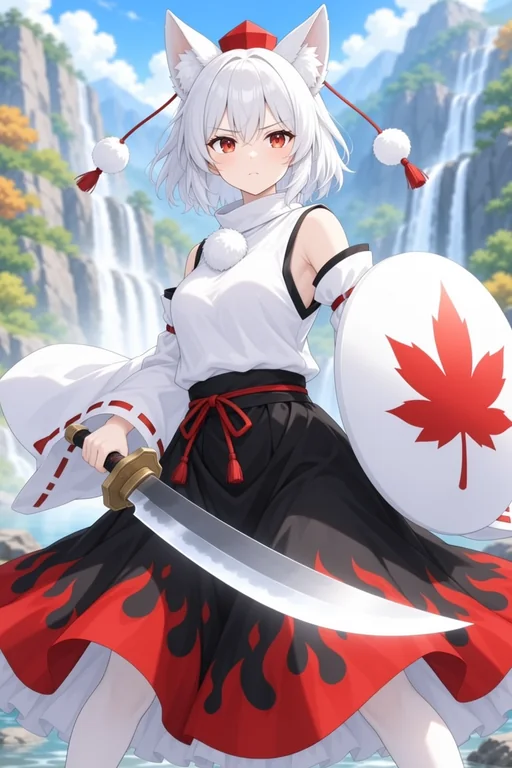
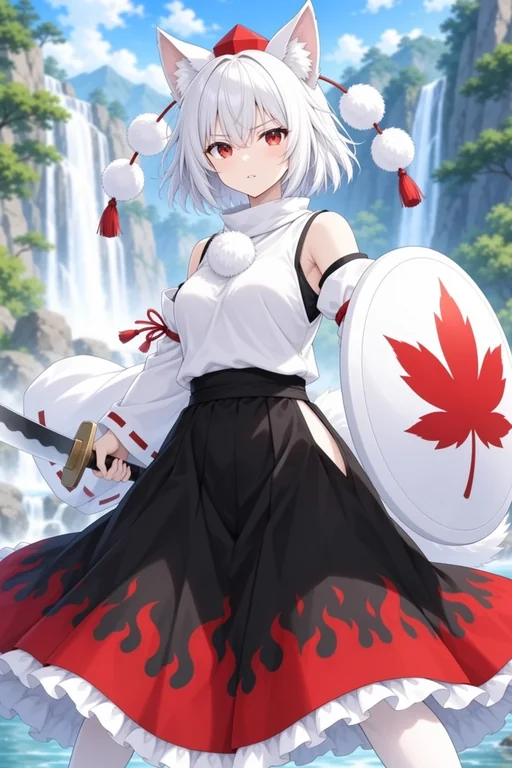
art(mountain): 風神録10枚を先輩の選定案に差し替え

diff --git a/tools/card-art/characters.md b/tools/card-art/characters.md
@@ -59,6 +59,8 @@
 | f_shizuha | 短い金髪（赤い紅葉）・金目・赤いロングドレス（裾に葉模様）・白いリーフリボン | `aki_shizuha short_hair blonde_hair gold_eyes red_dress leaf_print autumn_leaves` | 穣子と髪色が近いので帽子と葡萄で差をつける |
 | f_momiji | 短い白髪・赤目・狼耳・赤いトキン・白い長袖シャツ＋黒いロングスカート（赤い炎模様）・長い刀＋紅葉の盾 | `inubashiri_momiji white_hair red_eyes wolf_ears red_tokin white_shirt black_skirt sword shield` | |
 | f_faith | （人物なし）守矢神社・鳥居・石段・しめ縄・御札・賽銭箱 | `no_humans moriya_shrine torii stone_steps shimenawa ofuda scenery` | 風景カード |
+- 風神録の採用案（2026-11-07・先輩の選択）: aya=1 / faith=3 / hina=3 / kanako=1（仁王立ち再生成） / minoriko=1 / momiji=1 / nitori=3 / sanae=3 / shizuha=3 / suwako=1
+
 
 ## 露出の方針
 
@@ -102,5 +104,6 @@
 | 玉兎 | 人間ではなく兎 | `no humans, rabbit, white fur, pounding mochi` に変更（人型の兎娘をやめた） |
 
 再生成は各3案（咲夜/橙/プリズム/慧音/玉兎＝15枚＋橙の作り直し6枚）。採用は `assemble-final.py` の `PICK` に反映済み。
+
 
 
